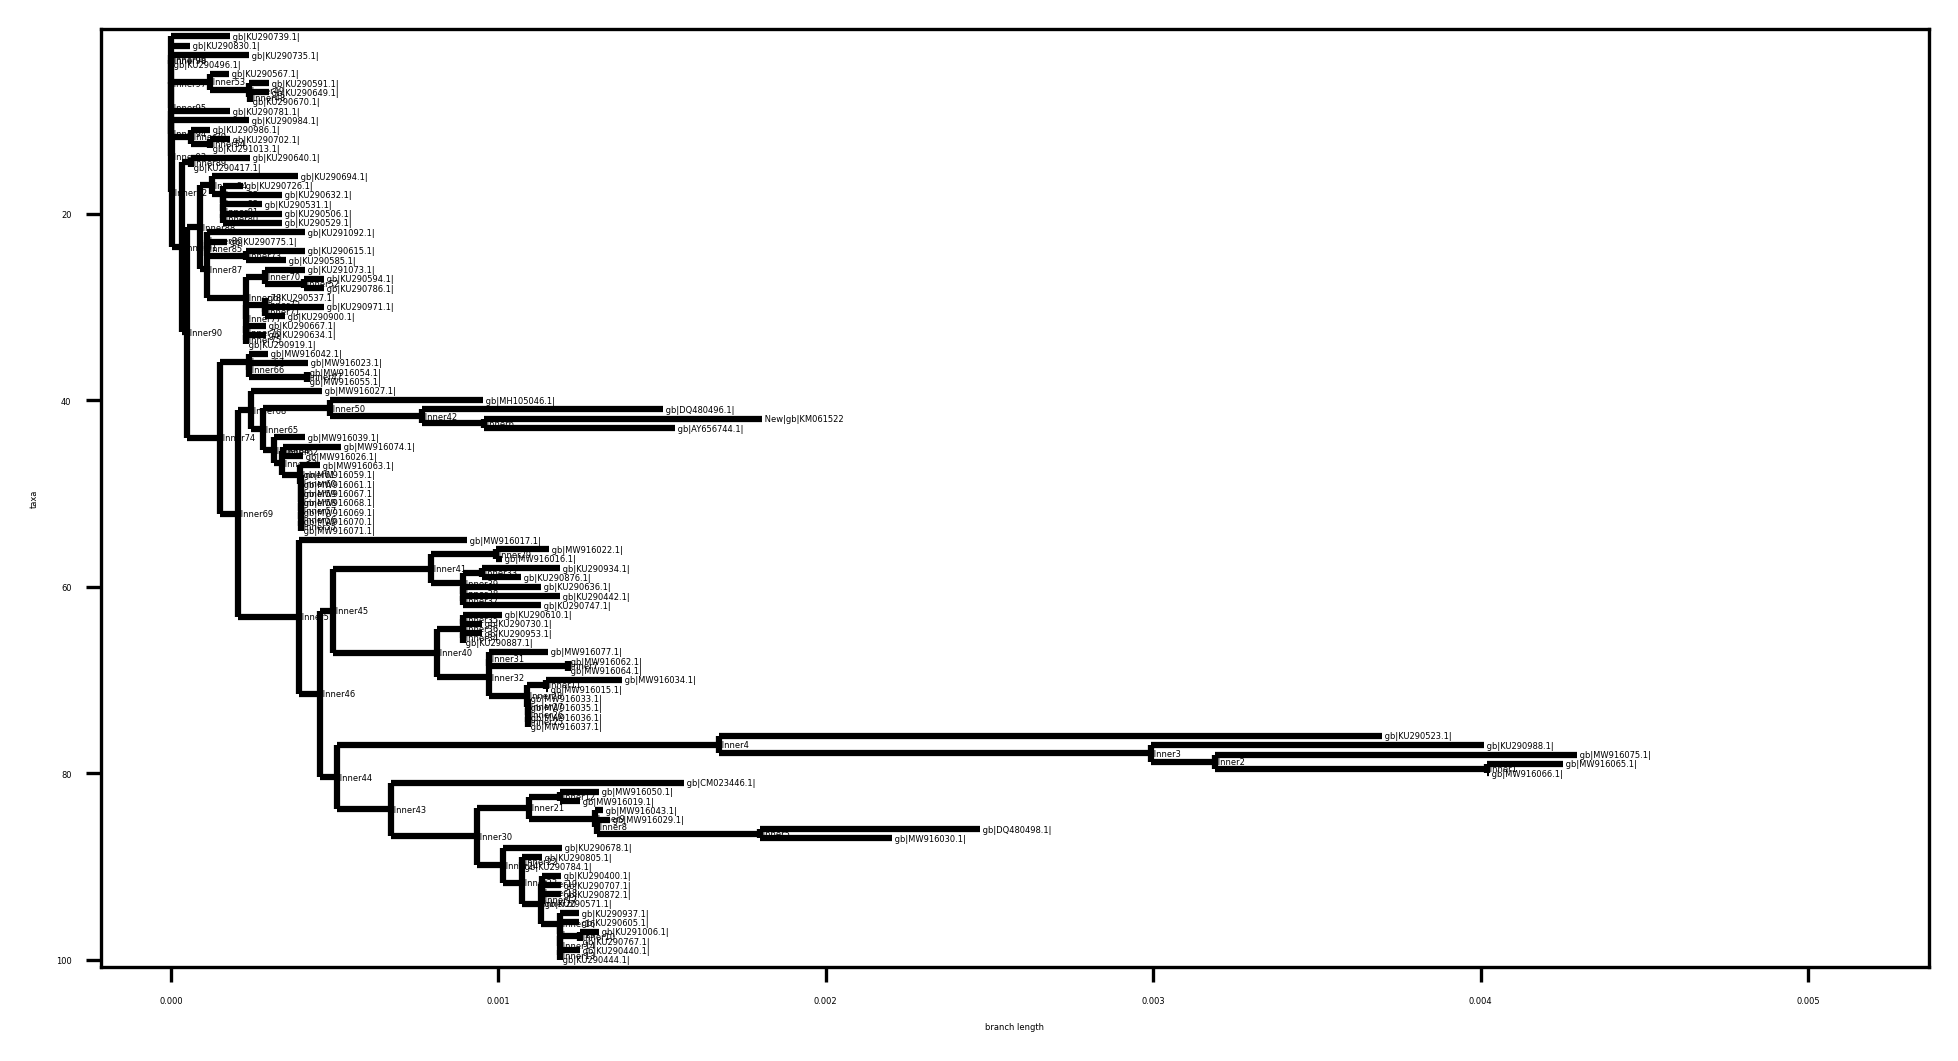
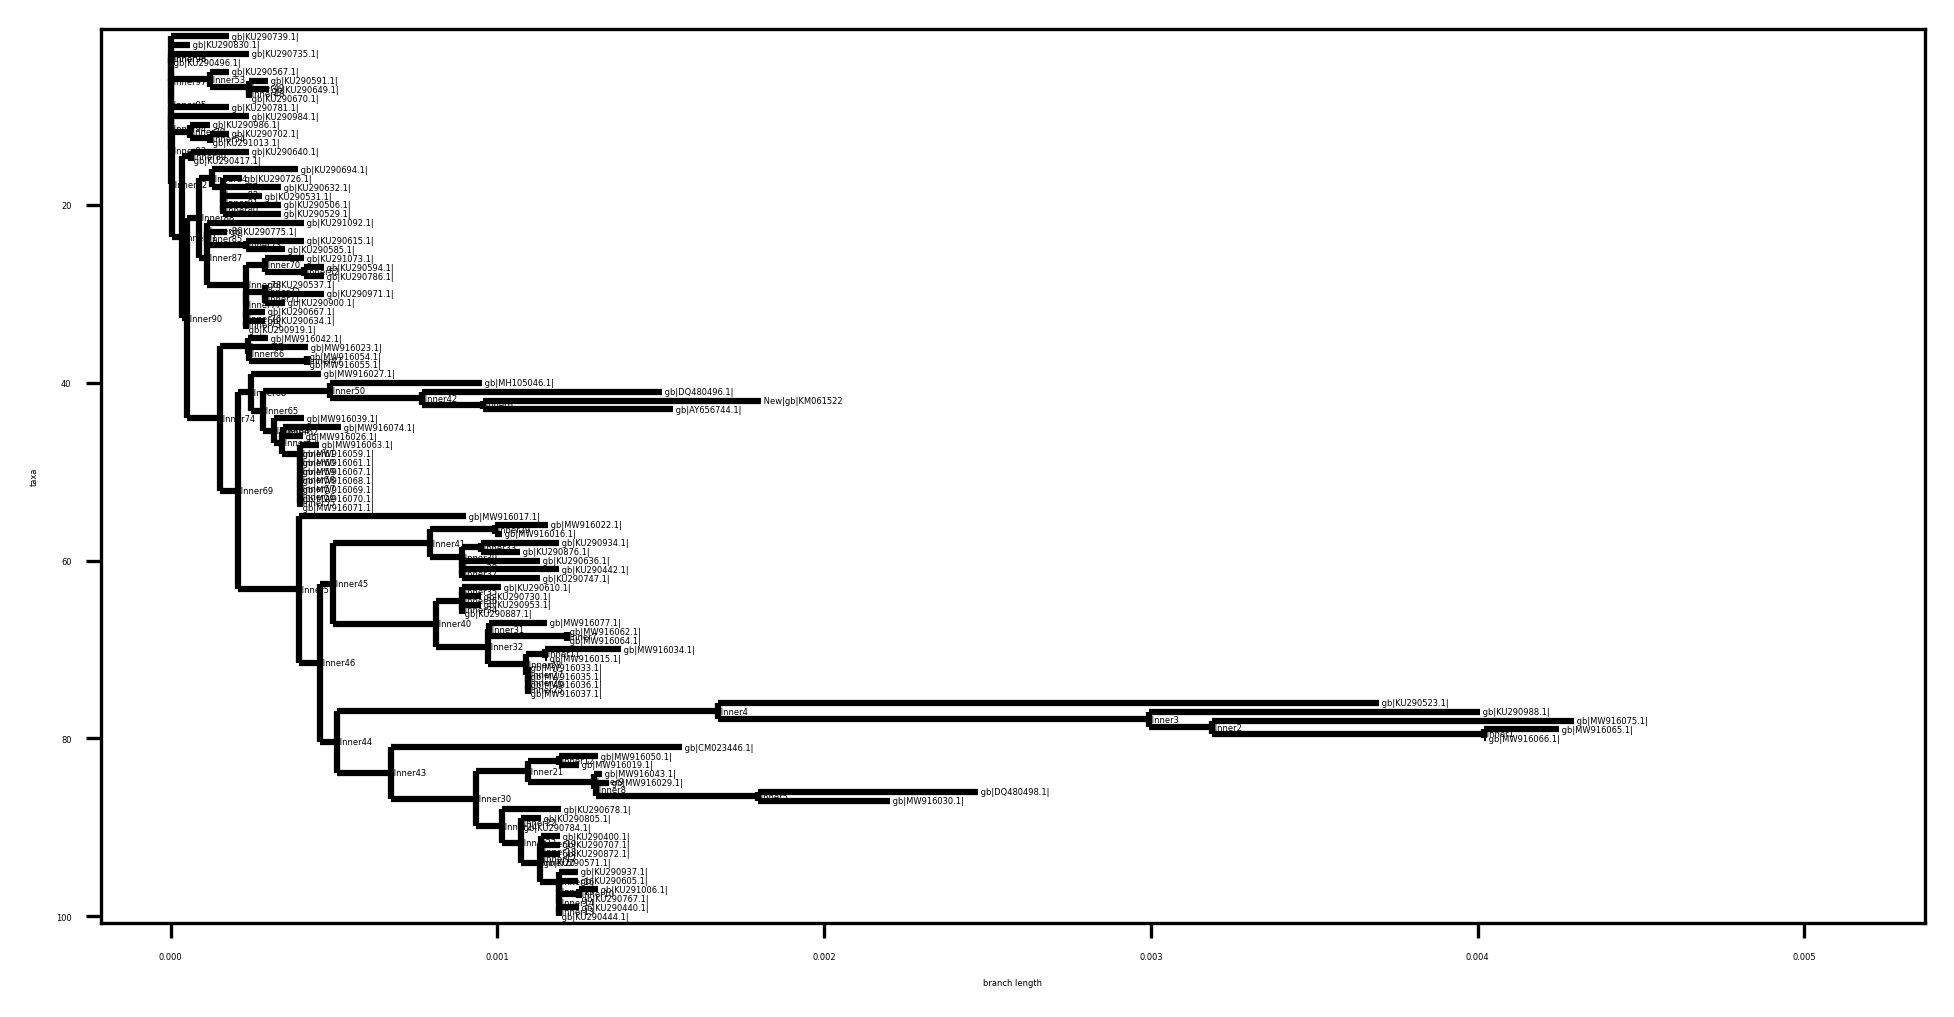
Python code - final
Cleaned up final python code. Some basic formatting and a few print statements included for greater clarity on the terminal. Documentation of each line of code now complete.

diff --git a/code/parse-seq.py b/code/parse-seq.py
@@ -1,7 +1,6 @@
 # Load modules and import libraries
 
 import Bio as Bio
-
 from Bio import SeqIO
 from Bio import AlignIO
 from Bio import Phylo
@@ -17,35 +16,33 @@ import numpy as np
 import matplotlib
 import matplotlib.pyplot as plt
 
-
-
-
 def load_alignment_get_distance(file:str):
-    ### Function for loading alignment data and outputting DNA distance in a matrix format
+    
+    ### Function for loading given multiple sequence alignment data and outputting DNA distance in a matrix format
     ###
     ### Input:
-    ###       file - string path to DNA allignment file
+    ###       File - string path to a DNA (MAFFT) profile-multiple sequence allignment file (clustal, .aln)
     ###
     ### Output:
-    ###        Biopython DistanceMatrix
+    ###        A Biopython DistanceMatrix (Bio.Phylo.TreeConstruction.DistanceMatrix) and distance calculator
         
-    # Load alignment file
+    # Load the multiple seqcence alignment file
     read_aln = AlignIO.read(file, "clustal")
     
     # Initialise DNA distance calculator
     cal_dist = DistanceCalculator("identity")
     
-    # Get distnace matrix 
+    # Generate a distnace matrix from your alignment
     dm = cal_dist.get_distance(read_aln)
     
     return(dm, cal_dist)
     
-
 def distance_matrix_to_df(dm):   
-    ### Function for formating the BioPython distance matrix into pandas dataframe
+    
+    ### Function for formating the BioPython distance matrix into a pandas dataframe (df)
     ###
     ### Input:
-    ###        Biopython DistanceMatrix
+    ###        Biopython's DistanceMatrix
     ###
     ### Output:
     ###        Pandas Dataframe with alignment distance matrix
@@ -58,148 +55,155 @@ def distance_matrix_to_df(dm):
 
     dstmtxDF = pd.DataFrame(distances)
     
-    # Replace all 0.0000 in df with NaN to avoid identical matches
+    # Replace all 0.0000 in the df with NaN to avoid identical matches with same sequences
     dstmtxDF.replace(0.000000, np.nan, inplace=True)
     
-    # Set the dog ID's as column headers
+    # Set all the dog ID's as the column headers
     dstmtxDF.columns = dm.names
     
     # Create a new column with dog ID's for each row
     dstmtxDF['seq_id'] = dm.names
     
-    # Set the ID's as our index column in a new variable
+    # Set the row ID's as our index column in a new variable
     orgDF = dstmtxDF.set_index("seq_id")
     
-    # Create a new column containing the closest distances for each of the rows respectively
+    # Create a new column that returns the dog ID of the closest distance for each of the rows respectively
     orgDF['closest_dist'] = orgDF.idxmin(axis=1)
     
     return(orgDF)
 
 def seq_match_in_df(orgDF: pd.DataFrame,
                     match_seq:str):
-    ### Function for matching the closest sequence to the mystery sequence using our pandas dataframe
+    
+    ### Function for matching and displaying the closest sequence to the mystery sequence using our pandas df
     ###
     ### Input:
-    ###        Pandas Dataframe with alignment distance matrix and a sequence ID to match to
+    ###        Pandas df with alignment distance matrix and a matching dog sequence ID to our mystery sequence
     ###
     ### Output:
-    ###        The seqence that is closest related to input sequence string, in this case our mystery sequence ID
+    ###        The seqence that is closest related to the input sequence string (our mystery sequence ID)
     
-    #Identify the closest sequence match to our mystery sequence
+    # Identifies the closest sequence match to our mystery sequence and stores it in a variable to return (Output Goal)
     mystery_match = orgDF.loc[match_seq, "closest_dist"]
         
     return(mystery_match)
 
 def prepare_seqs(msa):
     
-    ### Function for preparing seqs of interest
+    ### Function for preparing the indentified seqences of interes
     ###
     ### Input:
-    ###        Target sequence and its closest match determined by the distance matrix DF
+    ###        Our profile-multiple sequence alignment file (note: dog IDs of interest were pre-determined from our df) 
     ###
     ### Output:
-    ###        Sequecnce files saved in output
+    ###        Individual mystery and target sequence fasta files saved in output folder
       
-    testing = [i for i in AlignIO.read(msa, "clustal")]
+    # Read the multiple sequence alignement file and store in variable
+    testing_seqs = [i for i in AlignIO.read(msa, "clustal")]
     
-    # Initialise list for sequences of interest
-
+    # Initialise a list for both sequences of interest
     seq_1 = []
     seq_2 = []
     
-    # Attempting to append the sequence closest to mystery sequence into new file
-    for target in testing:
+    # Append the mystery and target sequence/fasta details into the new lists
+    for target in testing_seqs:
         if target.id=="New|gb|KM061522":
             seq_1.append(target)
 
-    for target in testing:
+    for target in testing_seqs:
         if target.id=="gb|AY656744.1|":
             seq_2.append(target)
     
-    # Check if list has been populated
+    # Test to see if the lists have been populated with our intended records
     assert len(seq_1) > 0, "Assertion error: Sequence 1 not loaded in list"
     assert len(seq_2) > 0, "Assertion error: Sequence 2 not loaded in list"
     
-    
-    # Writing the new sequence pair to a new output file
+    # Writing the new sequence list pair to new fasta files in our output folder, because we cannot feed lists into a pairwise aligner
     SeqIO.write(seq_1, "../output/KM061522.fasta", "fasta") 
     SeqIO.write(seq_2, "../output/AY656744.fasta", "fasta")
                 
     
 def pairwise_alignment():
     
-    ### Function for pairwise seqence alignment of selected matching seqences of interest
+    ### Function for a pairwise seqence alignment of selected matching sequences of interest
     ###
     ### Input:
-    ###        Target sequence and its closest match determined by the distance matrix DF
+    ###        Our mystery sequence and its closest match target determined by the distance matrix df
     ###
     ### Output:
-    ###        A pairwise sequence alignment, its differences and percentage match
+    ###        A pairwise sequence alignment, text file written into output folder to observe differences. Number of matched nucleotides in the alignment are displayed
     
-    # Pairwise aligner does not accept lists, so a new file needs to be generated to feed into the aligner
+    # Pairwise aligner does not accept lists, so a new fasta file was generated to feed biopython's .seq object directly into the aligner
     myst_seq = r"../output/KM061522.fasta"
     targ_seq = r"../output/AY656744.fasta"
     
-    # Read fasta sequences
+    # Read fasta sequences and store as input variables
     input_1 = SeqIO.read(myst_seq, "fasta")
     input_2 = SeqIO.read(targ_seq, "fasta")
     
-    # Ensure sequences are the same length for alignment
+    # Test to ensure sequences are the same length for alignment
     assert len(input_1.seq) == len(input_2.seq), "Assertion error: Sequence lengths are not equal"
+    seq_len = len(input_1.seq)
+    print(f"\nTotal nucleotide sequence length to align is: {seq_len}\n") 
     
-    # Initialise aligner parameters for scoring
+    # Initialise our aligner parameters for global alignment and scoring (using as a nucleotide match counter)
     aligner = Align.PairwiseAligner()
     aligner.mode = 'global'
     aligner.match_score = 1
     aligner.mismatch_score = 0
     
+    # Start global pairwise alignment of the sequences. Prints the number of nucleotide matches and alignment display on terminal/console (Output Goal)
     for compare in aligner.align(input_1.seq, input_2.seq):
         print("Nucleotides matched in sequence = %.1f" % compare.score)
-        print("\nA pairwise sequence alignment has been generated in the output folder.\n") # compare, maybe save this to output
+        print("\n\n\nA global pairwise sequence alignment has been successfully generated. Please observe the representation below for any differences:\n\n\n")
+        print(compare)
         break
 
+    # Set variable outside of the for loop (nucleotide match count to be returned)
     seq_match = compare.score
     
-    # Returning input_1 for a later function to to use its length in a calculation and seq_match
-
+    # Returning input_1 for a later function, we will use its length in a percentage calculation along with seq_match
     return(input_1, seq_match)
-   
 
 def alignment_match_score(input_1, seq_match):  
     
-    ### Function for calculating the percentage match of the two sequences provided
+    ### Function for calculating the percentage match of the two sequences aligned
     ###
     ### Input:
-    ###        input_1 sequence variable and compare.score 
+    ###        input_1 sequence variable and the seq_match score 
     ###
     ### Output:
-    ###        Percentage of sequence match
+    ###        Percentage of total sequence aligned and found matching
     
+    # Nucleotide sequence length input into the aligner
     seq_len = len(input_1.seq)
    
+    # Calculate the percentage match in the alignment
     pct_match = (seq_match/seq_len)*100
     
-    return(print(f"Mystery sequence (KM061522) has a {pct_match:.2f}% match with AY656744.1 (English Springer Spaniel)\n\n"))
+    # Print out the percentage match and the details of the IDs fed into the aligner (Output Goal & Stretch Goal 1)
+    return(print(f"\n\n\nMystery sequence (KM061522) has a {pct_match:.2f}% match with AY656744.1 (English Springer Spaniel).\n\n\n"))
 
 def construct_phylo_tree(cal_dist, dm):  
     
-    ### Function for calculating the percentage match of the two sequences provided
+    ### Function for constructing a phylogenetic tree for the multiple seqence alignment distance matrix
     ###
     ### Input:
-    ###        input_1 sequence variable and compare.score 
+    ###        Distance calculator and distance matrix 
     ###
     ### Output:
-    ###        Percentage of sequence match
+    ###        Generates a neighbour-joining phylogenetic tree figure and saves it to the output folder 
     
+    # Variable that combines our distance calculator and tree constructor
     constructor = DistanceTreeConstructor(cal_dist)
     
+    # Generates our neighbour-joining phylogeny tree from our msa distance matrix
     nj_tree = constructor.nj(dm)
     
-    # Plot a neighbour joining tree from constructor and distance matrix
-
+    # Plot a neighbour joining tree from constructor and distance matrix, constrained layout minimises overcrowding
     fig = plt.figure(figsize=(100, 100), dpi=300, layout="constrained")
 
-    #plt.subplots(layout="constrained")
+    # Set plot font and label sizes
     matplotlib.rc("font", size=2)
     matplotlib.rc("xtick", labelsize=2)
     matplotlib.rc("ytick", labelsize=2)
@@ -207,34 +211,39 @@ def construct_phylo_tree(cal_dist, dm):
     # Sort clades according to terminal nodes
     nj_tree.ladderize()
     
-    # Set axes parameters
+    # Set plot axes parameters
     axes = fig.add_subplot(1, 1, 1)
     
-    # Get current figure so it can save
+    # Get current figure so it can save to file
     fig1 = plt.gcf()
     
     # Draw the phylogeny tree
     Phylo.draw(nj_tree, axes=axes)
     
-    # Set path to save file
+    # Set our output folder path to save file
     save_results_to = "../output/"
     
-    # Save phylogeny plot as png in the output folder
+    # Save phylogeny plot as .png in the output folder (Stretch Goal 2)
     fig1.savefig(save_results_to + 'phylogenetic_tree.png', dpi=300, bbox_inches='tight')
 
+    # Print message to prompt the checking of a phylo tree generated in output folder
+    print("\nA phylogenetic tree has been successfully generated. A .png file has now been saved in the output folder.\n\n\n")
+    
     return(nj_tree)
 
 def draw_ascii_tree(nj_tree):  
 
-    ### Function for drawing basic ascii representation of our tree
+    ### Function for presenting basic ascii representation of our tree on terminal/console
     ###
     ### Input:
-    ###        nj_tree
+    ###        nj_tree phylogeny tree
     ###
     ### Output:
-    ###        Phylogenetic tree drawn in ascii characters for node clarity
+    ###        Phylogenetic tree drawn in ascii characters which helps clarify branches and nodes
     
-    # Basic representation printed on terminal for tree label clarity 
+    print("Below is a basic ascii tree representation for visual clarity. Please don't forget to scroll up and review all output from the beginning. Thank you!\n\n")
+    
+    # Basic ascii tree representation displayed on terminal (Stretch Goal 2)
     return(Phylo.draw_ascii(nj_tree))
     
 
@@ -242,31 +251,24 @@ if __name__ == '__main__':
     
     # Define file path
     msa = r"../data/mafft_alignments/second_MSA.aln"
-    
-    # Seq to match
+    # Mystery sequence to match
     match_seq = "New|gb|KM061522"
-
     # Get distance matrix and calculator
     dm, cal_dist = load_alignment_get_distance(msa)
-    
     # Generate pandas df from distance matrix
     orgDF = distance_matrix_to_df(dm)
-    
     # Closest match in distance matrix df depnding on ID input
     mystery_match = seq_match_in_df(orgDF, match_seq)
-
-    print(f"\nThe closest related dog to our mystery sequence is: {mystery_match} \n")
+    # Prints our desired outputs onto terminal
+    print(f"\n\n\n\nThe closest related dog to our mystery sequence is: {mystery_match} (English Springer Spaniel)\n\n\n")
     print("Loading sequence data... \n\nAppending sequence closest to the mystery sequence... \n")
-    #
+    # To fetch target sequences needed for aligning
     prepare_seqs(msa)
-    print("Sequences successfully appended and saved into the output folder. \n")
-    
-    # 
+    print("Sequences successfully appended and saved into the output folder.\n")
+    # Needed for match calculations
     input_1, seq_match = pairwise_alignment()
-    
-    #
     alignment_match_score(input_1, seq_match)
-    
+    # Phylogeny tree construction
     nj_tree = construct_phylo_tree(cal_dist, dm)
-
+    # Tree representation on terminal
     draw_ascii_tree(nj_tree)
